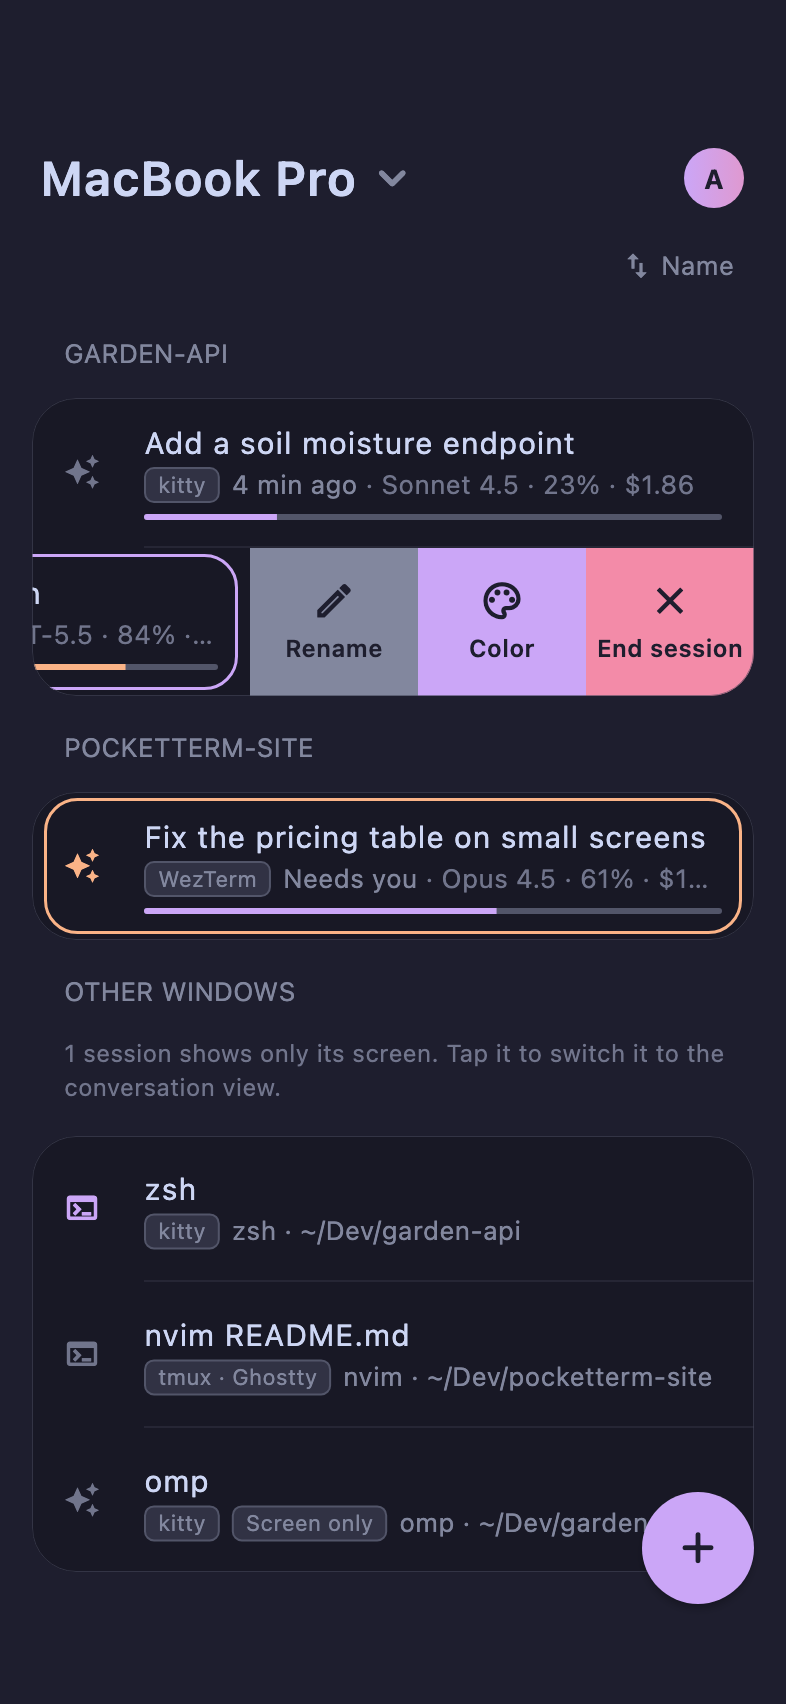
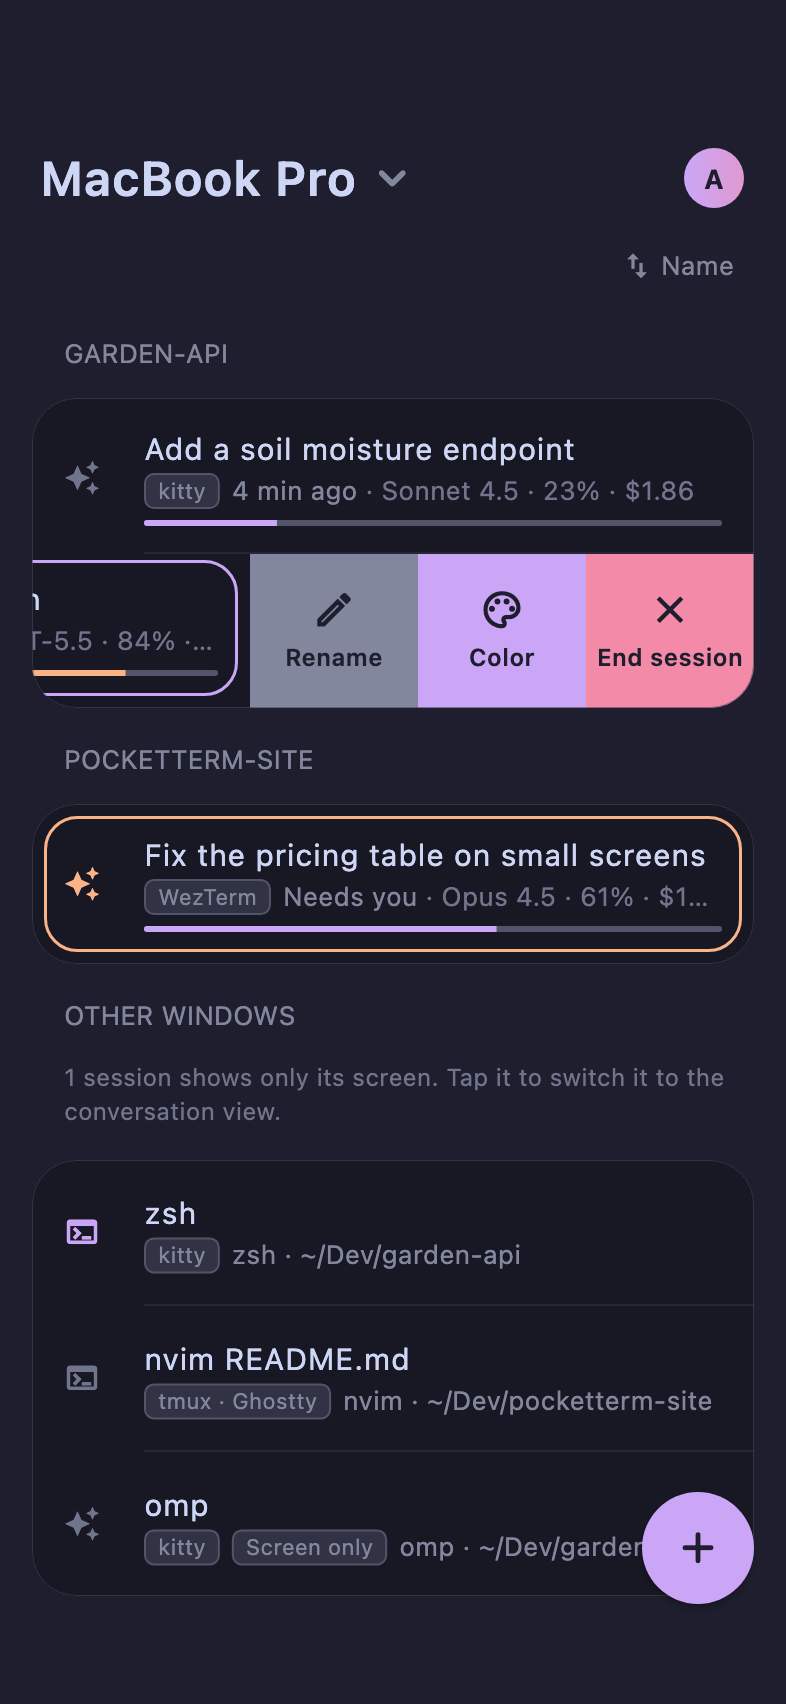
Phone: a run that ends while its conversation is open doesn't light its row as done; a lone row has as much room above and below its border as at its sides

diff --git a/apps/pocketterm-mobile/lib/terminal_view.dart b/apps/pocketterm-mobile/lib/terminal_view.dart
@@ -468,10 +468,15 @@ class ContextBar extends StatelessWidget {
 final _wasBusy = <String>{};
 final _finished = <String>{};
 
-/// Notes which of [sessions] finished a run since last looked at.
-void _noteFinished(Iterable<LiveSummary> sessions) {
+/// Notes which of [sessions] finished a run since last looked at. A run that ends while its conversation is open
+/// ([watched]) was seen as it ended, so its row doesn't ask for attention afterwards.
+void _noteFinished(Iterable<LiveSummary> sessions, {String? watched}) {
   for (final s in sessions) {
-    if (s.busy) {
+    if (s.key == watched) {
+      _wasBusy.remove(s.key);
+      _finished.remove(s.key);
+      if (s.busy) _wasBusy.add(s.key);
+    } else if (s.busy) {
       _wasBusy.add(s.key);
       _finished.remove(s.key);
     } else if (_wasBusy.remove(s.key) && s.ask == null && !s.failed) {
@@ -815,7 +820,8 @@ class _TerminalListState extends State<TerminalList> {
   static double get _rowRadius => max(Panel.radius - 6, 0).toDouble();
 
   /// A session's row; its project is the heading above it.
-  Widget _session(LiveSummary s) {
+  /// [first] and [last]: its place in the card, whose edges get as much room around the row as its sides do.
+  Widget _session(LiveSummary s, {bool first = false, bool last = false}) {
     final own = s.title.isNotEmpty ? s.title : s.agent.label;
     final title = _look(s.key).name ?? own;
     final tint = _tint(s.key);
@@ -836,7 +842,7 @@ class _TerminalListState extends State<TerminalList> {
             on: s.ask != null && tint == null,
             // The border says how it stands, like a terminal tab's colour; the words under the title stay quiet.
             child: Padding(
-              padding: const EdgeInsets.symmetric(horizontal: 6, vertical: 3),
+              padding: EdgeInsets.fromLTRB(6, first ? 6 : 3, 6, last ? 6 : 3),
               child: StateBorder(
                 state: tileState(s),
                 radius: _rowRadius,
@@ -930,7 +936,9 @@ class _TerminalListState extends State<TerminalList> {
               child: const CircularProgressIndicator(strokeWidth: 2),
             )
           : null,
-      children: folded ? [_summary(g)] : [for (final s in g.sessions) _session(s)],
+      children: folded
+          ? [_summary(g)]
+          : [for (final (i, s) in g.sessions.indexed) _session(s, first: i == 0, last: i == g.sessions.length - 1)],
     );
   }
 
@@ -1192,7 +1200,7 @@ class _TerminalListState extends State<TerminalList> {
     builder: (context, _) {
       final note = linkNote(remote, color: Colors.transparent);
       final groups = groupedSessions(remote.sessions, _sort, ranked: _ranked);
-      _noteFinished(remote.sessions);
+      _noteFinished(remote.sessions, watched: remote.watchedSession);
       // What's shown is what stays: a project's activity reorders it only
       // on the next refresh.
       if (_sort == ProjectSort.activity) _ranked = [for (final g in groups) g.cwd];

diff --git a/apps/pocketterm-mobile/test/terminal_list_test.dart b/apps/pocketterm-mobile/test/terminal_list_test.dart
@@ -265,6 +265,39 @@ void main() {
     remote.flush();
   });
 
+  testWidgets('a run that ends unseen lights its row as done; one that ends while its conversation is open does not', (
+    tester,
+  ) async {
+    final now = DateTime.now().millisecondsSinceEpoch;
+    Map<String, dynamic> state({required bool busy}) => {
+      'windows': const <Object>[],
+      'sessions': [
+        for (final key in ['pid:41', 'pid:42'])
+          {'key': key, 'id': key, 'agent': 'omp', 'title': key, 'cwd': _a, 'busy': busy, 'at': now},
+      ],
+      'home': '/Users/me',
+      'agent': 'omp',
+    };
+    TileState border(String key) => tester
+        .widget<StateBorder>(find.descendant(of: find.byKey(ValueKey('in-$key')), matching: find.byType(StateBorder)))
+        .state;
+
+    remote.handle('state', state(busy: true));
+    await pumpList(tester);
+    await tester.pump(const Duration(seconds: 1));
+    // pid:42's conversation is open (over the list) as its run ends.
+    final unwatch = remote.watchSession('pid:42');
+    remote.handle('state', state(busy: false));
+    await tester.pump();
+    await tester.pump(const Duration(seconds: 1));
+    unwatch();
+    remote.handle('state', state(busy: false));
+    await tester.pump();
+    expect(border('pid:41'), TileState.done);
+    expect(border('pid:42'), TileState.idle, reason: 'its answer was on screen as it came');
+    remote.flush();
+  });
+
   test("cost reads like omp's status line; a long model id is cut to fit", () {
     expect([money(43.344), money(0.01), money(0.004)], [r'$43.34', r'$0.01', r'<$0.01']);
     expect(shortModel('claude-opus-4-5-20251101'), 'opus-4-5');

diff --git a/CHANGELOG.md b/CHANGELOG.md
@@ -9,6 +9,8 @@ To see what a session has cost on the phone, click **Update** for omp and Claude
 ### Phone app
 
 - **A session's row reads like your agent's status bar.** Under the title, next to how it stands (**Working…**, **Needs you**, **7 h ago**), are its model, how full its context is and what it has cost so far, as omp and Claude Code count it (`Opus 4.5 · 49% · $43.34`); under them a thin bar fills with the context, turning amber past 70% and red past 90%. The first line of the last answer no longer shows there.
+- **Done only when you haven't seen it.** A session whose run ends while you're reading its conversation no longer lights its row as done when you go back to the list.
+- **Even room around a highlighted row.** A project with one session leaves as much room above and below its row's border as at its sides.
 
 ## 0.1.5
 
